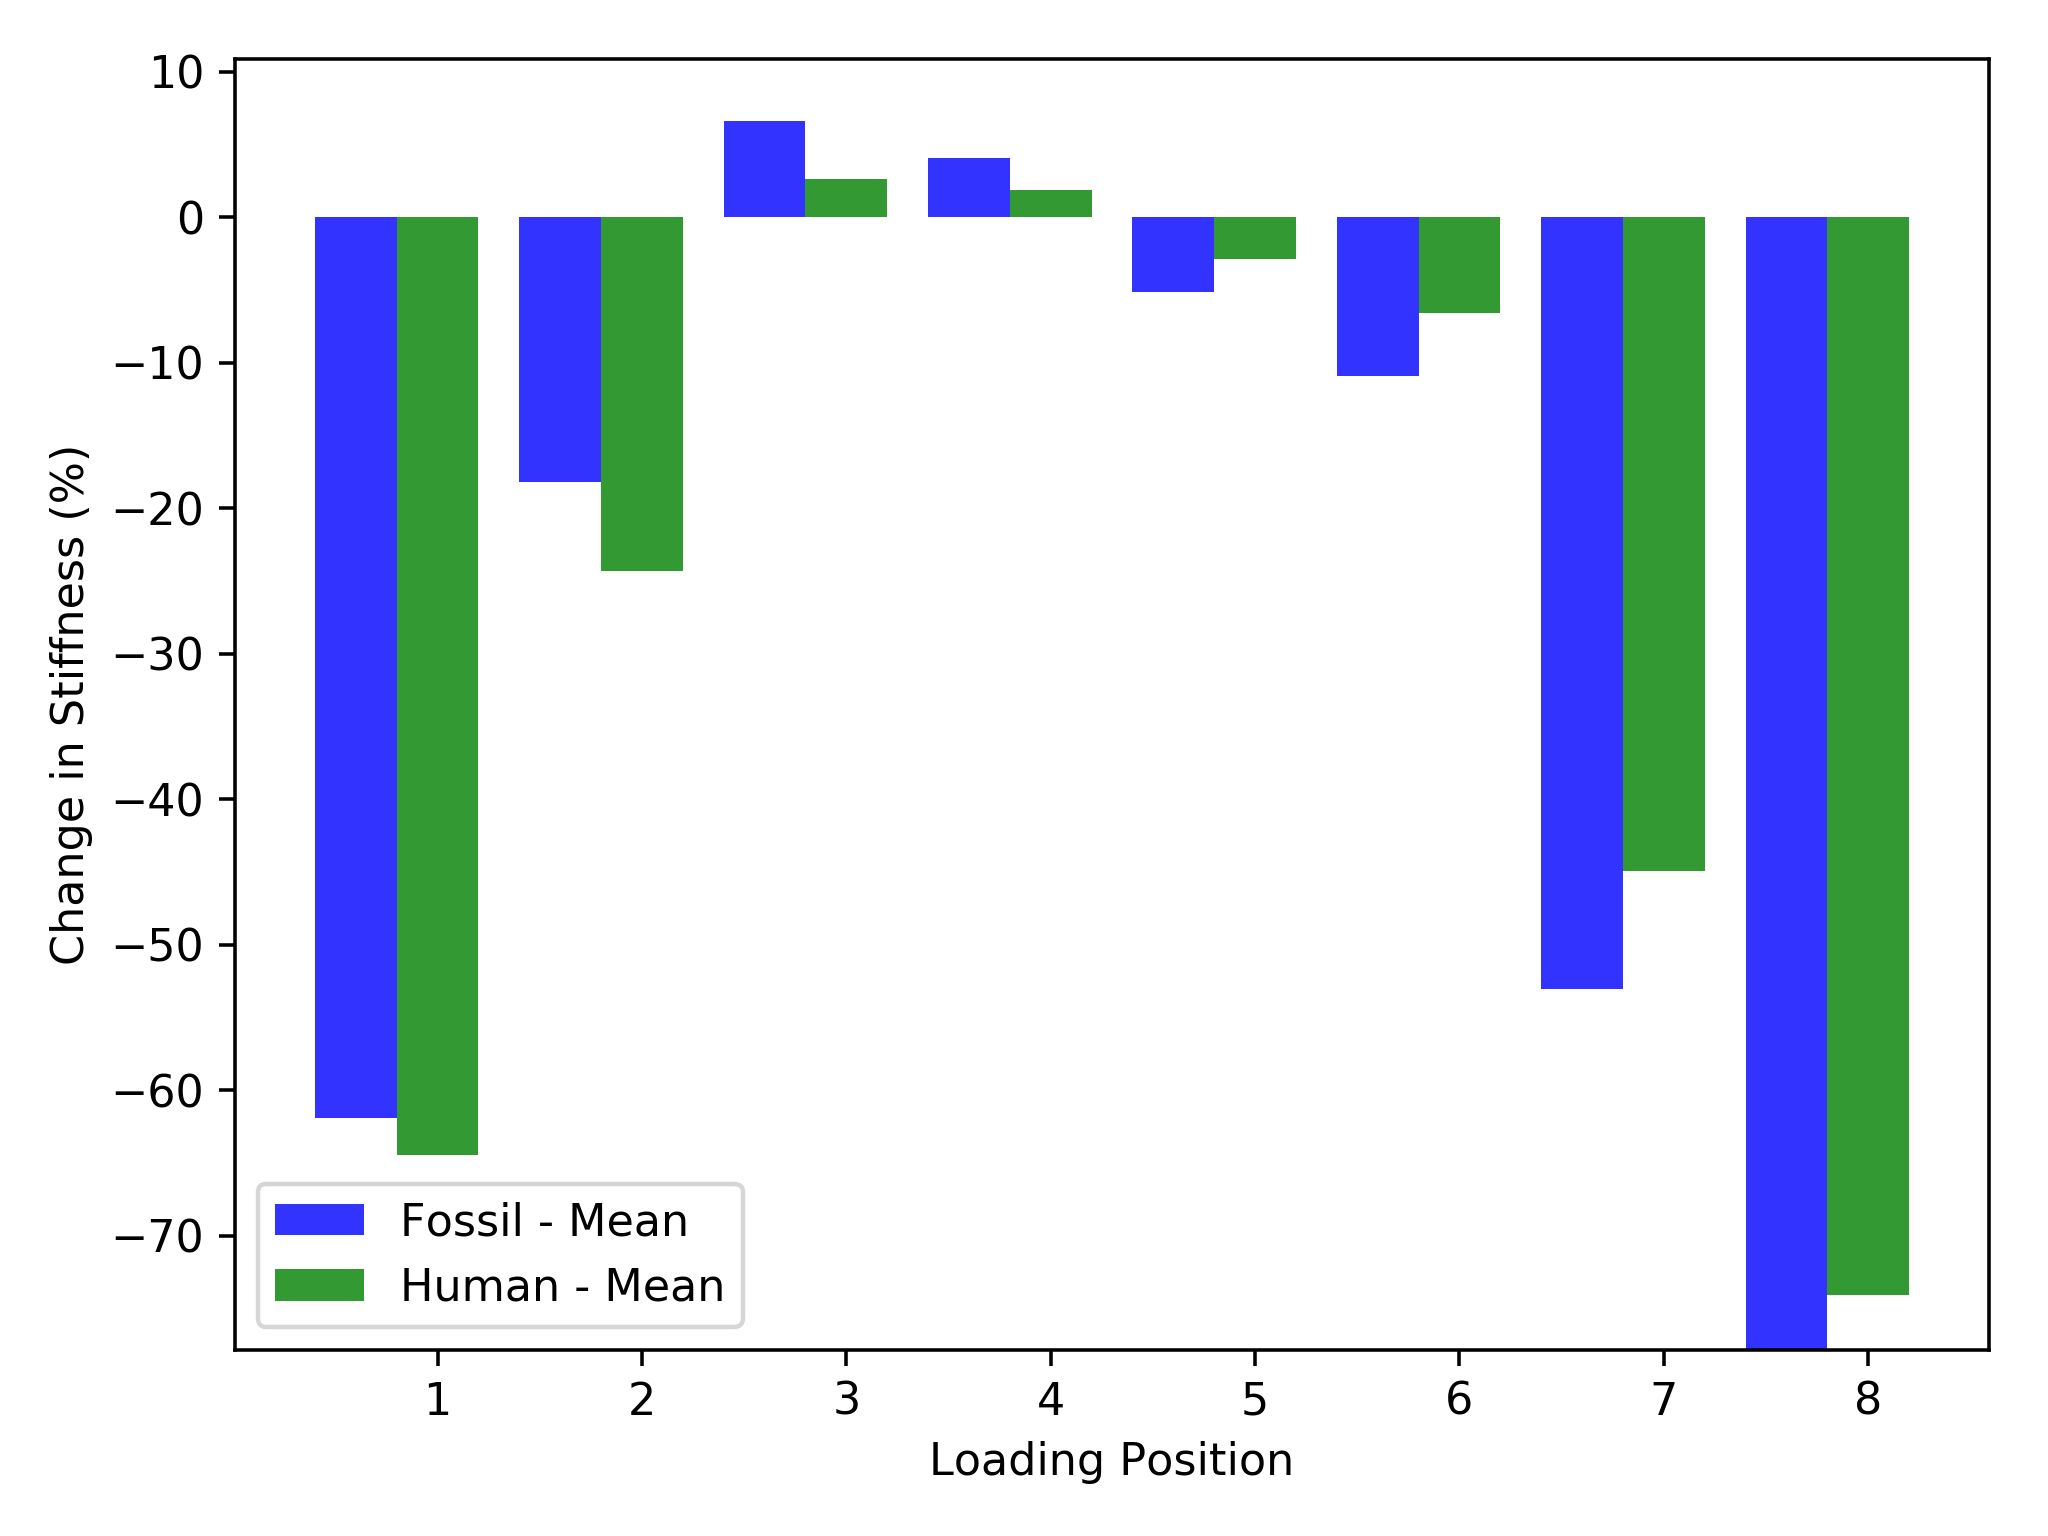
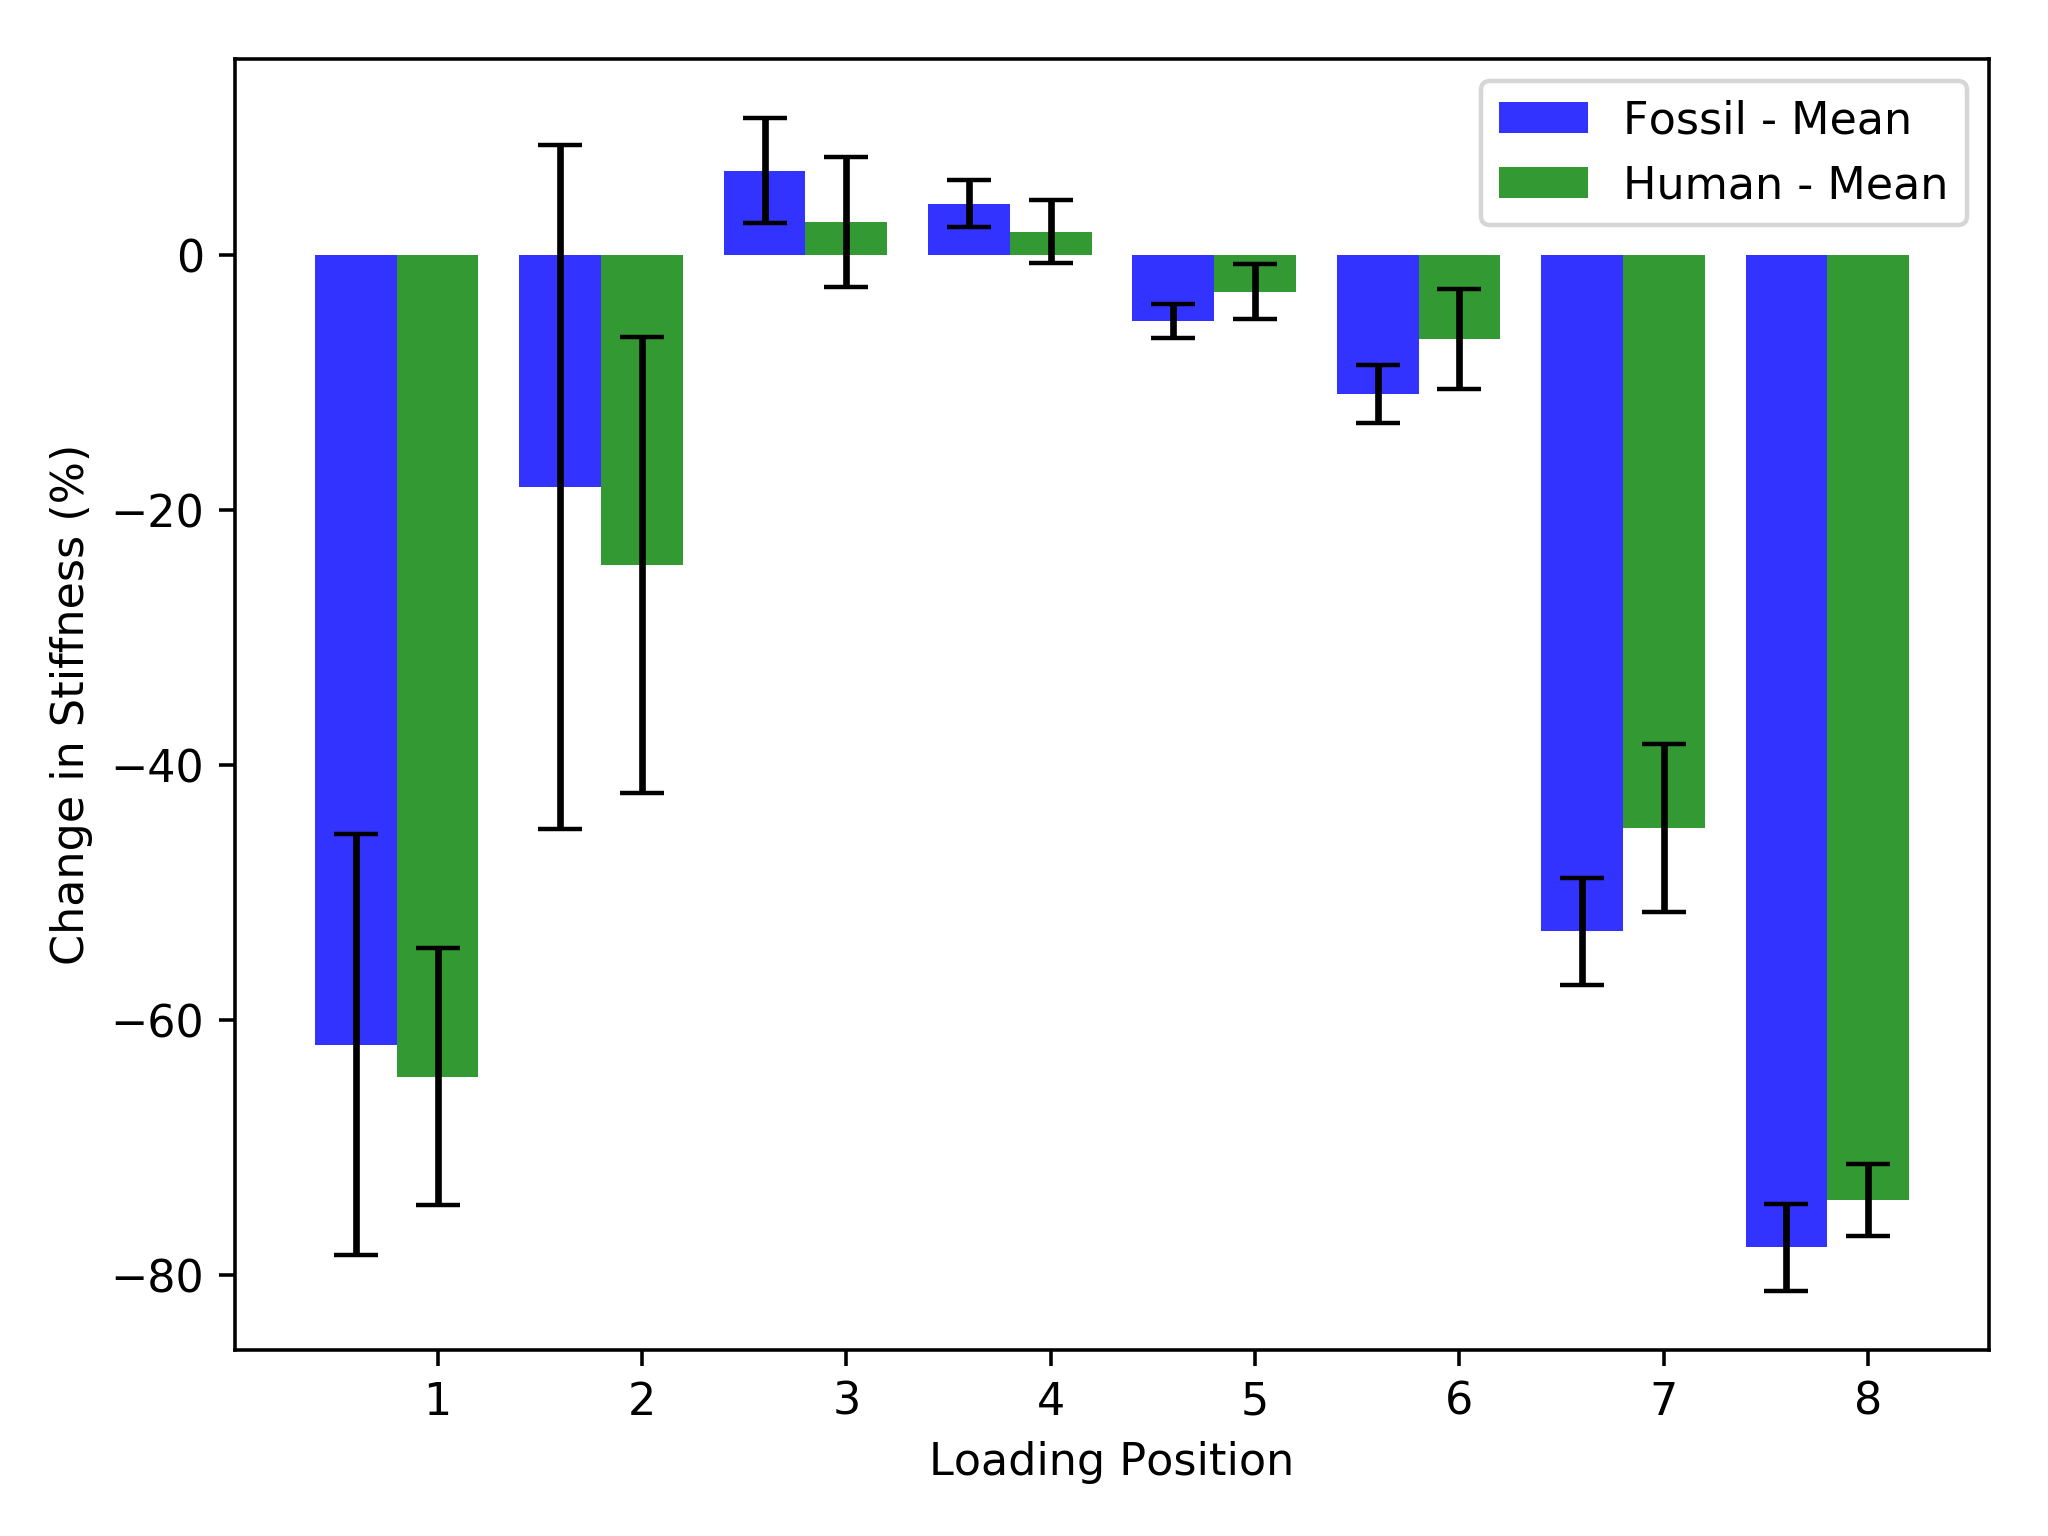
added error bars to the av graphs

diff --git a/Bar/final_plots_and_scripts/bar_fossil_human_average_ap.py b/Bar/final_plots_and_scripts/bar_fossil_human_average_ap.py
@@ -17,6 +17,8 @@ df2 = pd.read_csv(
 
 VB0 = df['Mean']
 VB1 = df2['Mean']
+errorVB0 = df['SD']
+errorVB1 = df2['SD']
 fig, ax = plt.subplots()
 index = np.arange(n_groups)
 novb = 2.0
@@ -26,11 +28,11 @@ opacity = 0.8
 rects1 = plt.bar(index, VB0, bar_width,
                  alpha=opacity,
                  color='b',
-                 label='Fossil - Mean')
+                 label='Fossil - Mean', yerr=errorVB0, align='center', ecolor='black', capsize=5)
 rects2 = plt.bar(index + (bar_width) , VB1, bar_width,
                  alpha=opacity,
                  color='g',
-                 label='Human - Mean')
+                 label='Human - Mean', yerr=errorVB1, align='center', ecolor='black', capsize=5)
 #rects3 = plt.bar(index+ (bar_width *2), VB2, bar_width,
 #                 alpha=opacity,
 #                 color='r',

diff --git a/Bar/final_plots_and_scripts/bar_fossil_human_average_lr.py b/Bar/final_plots_and_scripts/bar_fossil_human_average_lr.py
@@ -17,6 +17,8 @@ df2 = pd.read_csv(
 
 VB0 = df['Mean']
 VB1 = df2['Mean']
+errorVB0 = df['SD']
+errorVB1 = df2['SD']
 fig, ax = plt.subplots()
 index = np.arange(n_groups)
 novb = 2.0
@@ -26,11 +28,11 @@ opacity = 0.8
 rects1 = plt.bar(index, VB0, bar_width,
                  alpha=opacity,
                  color='b',
-                 label='Fossil - Mean')
+                 label='Fossil - Mean', yerr=errorVB0, align='center', ecolor='black', capsize=5)
 rects2 = plt.bar(index + (bar_width) , VB1, bar_width,
                  alpha=opacity,
                  color='g',
-                 label='Human - Mean')
+                 label='Human - Mean', yerr=errorVB1, align='center', ecolor='black', capsize=5)
 #rects3 = plt.bar(index+ (bar_width *2), VB2, bar_width,
 #                 alpha=opacity,
 #                 color='r',
